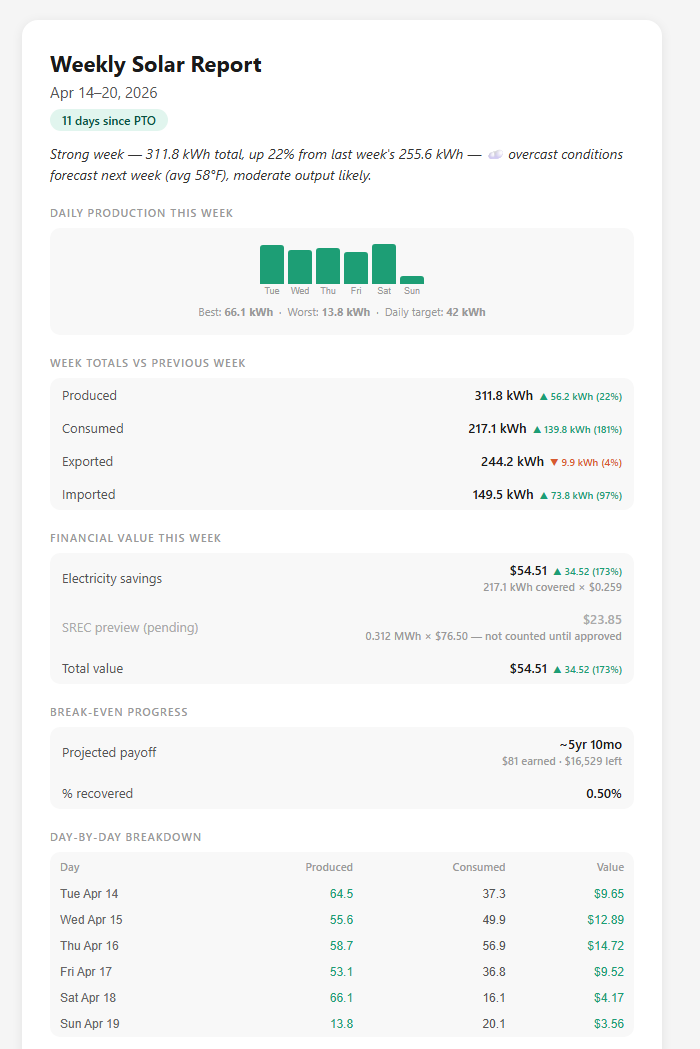
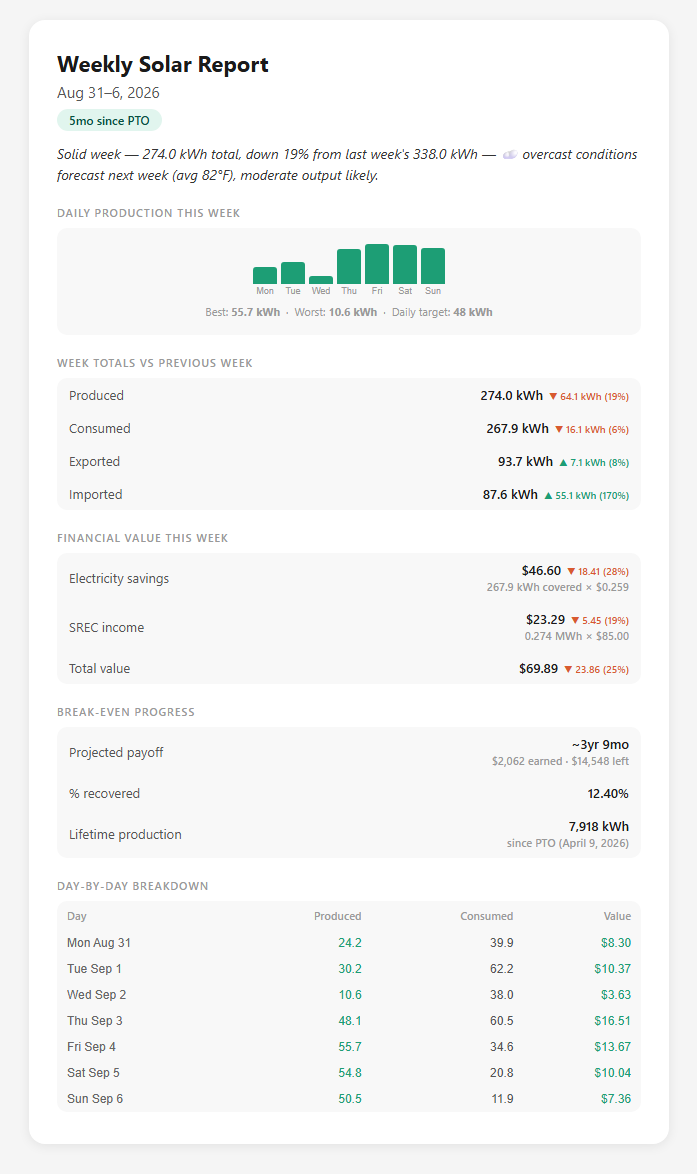
feat: enable SREC income now that NJ approval is in (#18)
SRECs are approved — enable SREC income across all reports at $85/MWh
(was excluded/greyed-out pending until now). Add a lifetime-production-
since-PTO card to all four report surfaces (daily HTML, daily email,
weekly, monthly) for consistency.

diff --git a/report_builder.py b/report_builder.py
@@ -132,7 +132,7 @@ def _break_even(cfg: dict, as_of_date: str) -> dict:
     """
     Project break-even using a year-by-year compound model:
       - Electricity savings escalate 3%/yr (PSE&G historical avg)
-      - SREC held flat at $76.50/yr per 1,000 kWh
+      - SREC held flat at $85.00/yr per 1,000 kWh
       - Annual consumption baseline: 10,100 kWh (from pre-solar bills)
       - Annual production baseline: annual_target_kwh from config
 
@@ -152,7 +152,7 @@ def _break_even(cfg: dict, as_of_date: str) -> dict:
     conn.close()
 
     net_cost     = cfg.get("net_cost", 16610)
-    srec_rate    = cfg.get("srec_rate", 76.5)
+    srec_rate    = cfg.get("srec_rate", 85.0)
     pseg_rate    = cfg.get("pseg_rate", 0.276)
     annual_prod  = cfg.get("annual_target_kwh", 13400)
 
@@ -174,7 +174,7 @@ def _break_even(cfg: dict, as_of_date: str) -> dict:
     # --- Year-by-year projection ---
     # Year 1 starts at PTO_DATE. For each year compute:
     #   electricity_savings = min(annual_prod, ANNUAL_KWH) × rate × (1.03)^yr
-    #   srec_income         = (annual_prod / 1000) × srec_rate  (flat)
+    #   srec_income         = (annual_prod / 1000) × srec_rate  (flat, added to annual_value)
     pto_year        = PTO.year
     base_elec_saved = min(annual_prod, ANNUAL_KWH) * pseg_rate  # year-0 rate
 
@@ -186,8 +186,8 @@ def _break_even(cfg: dict, as_of_date: str) -> dict:
         calendar_year  = pto_year + yr
         escalation     = (1 + RATE_ESCALATION) ** yr
         elec_savings   = round(base_elec_saved * escalation, 2)
-        srec_income    = round((annual_prod / 1000) * srec_rate, 2)  # informational only
-        annual_value   = round(elec_savings, 2)  # SRECs excluded until approval
+        srec_income    = round((annual_prod / 1000) * srec_rate, 2)
+        annual_value   = round(elec_savings + srec_income, 2)
 
         # How much of this year is still ahead of us?
         year_start = date(calendar_year, PTO.month, PTO.day)
@@ -311,6 +311,7 @@ def _yby_rows(year_by_year: list, net_cost: float) -> str:
             f'<tr style="background:{bg}">'
             f'<td style="padding:6px 8px;color:#444">{yr["year"]}{marker}</td>'
             f'<td style="padding:6px 8px;text-align:right;color:#1D9E75">${yr["elec_savings"]:,.0f}</td>'
+            f'<td style="padding:6px 8px;text-align:right;color:#1D9E75">${yr["srec_income"]:,.0f}</td>'
             f'<td style="padding:6px 8px;text-align:right;font-weight:600">${yr["annual_value"]:,.0f}</td>'
             f'<td style="padding:6px 8px;text-align:right;font-weight:600;color:{cum_color}">${yr["cumulative"]:,.0f} / ${net_cost:,.0f}</td>'
             f'</tr>'
@@ -394,6 +395,8 @@ def build_report(target_date: str) -> Path:
     bank = database.get_net_bank(PTO_DATE)
     banked_kwh       = bank["banked_kwh"]
     bank_excluded    = bank["anomalous_days"]
+    lifetime_produced = database.get_lifetime_production(PTO_DATE)
+    srec_earned       = row["srec_earned"]
     winter_days = round(banked_kwh / WINTER_DRAW) if banked_kwh > 0 else 0
     spring_days = round(banked_kwh / SPRING_DRAW) if banked_kwh > 0 else 0
     summer_days = round(banked_kwh / SUMMER_DRAW) if banked_kwh > 0 else 0
@@ -546,6 +549,11 @@ def build_report(target_date: str) -> Path:
       <div class="val" style="color:{'#1D9E75' if be['remaining'] <= 0 else '#378ADD'}">{be['label']}</div>
       <div class="sub">{be['sub']}</div>
     </div>
+    <div class="card">
+      <div class="lbl">Lifetime production</div>
+      <div class="val" style="color:#1D9E75">{lifetime_produced:,.0f}</div>
+      <div class="sub">kWh since PTO ({_fmt_date(PTO_DATE)})</div>
+    </div>
   </div>
 
   <div class="section">Financial value today</div>
@@ -556,9 +564,14 @@ def build_report(target_date: str) -> Path:
       <div class="sub">{elec_sub_html}</div>
     </div>
     <div class="card">
+      <div class="lbl">SREC income</div>
+      <div class="val" style="color:#1D9E75">${srec_earned:.2f}</div>
+      <div class="sub">{produced/1000:.3f} MWh × ${cfg['srec_rate']:.2f}</div>
+    </div>
+    <div class="card">
       <div class="lbl">Total value</div>
       <div class="val" style="color:#1D9E75">${total_value:.2f}{_delta_html(total_value, prev["total_value"] if prev else None, "", ".2f")}</div>
-      <div class="sub">electricity savings only</div>
+      <div class="sub">electricity savings + SREC income</div>
     </div>
   </div>
 
@@ -598,12 +611,13 @@ def build_report(target_date: str) -> Path:
 
   <div class="divider"></div>
 
-  <div class="section">Payoff projection — electricity savings only, 3% annual rate escalation</div>
+  <div class="section">Payoff projection — electricity savings + SREC income, 3% annual rate escalation</div>
   <table style="width:100%;border-collapse:collapse;font-size:12px;font-family:-apple-system,BlinkMacSystemFont,'Segoe UI',sans-serif">
     <thead>
       <tr style="color:#999;text-align:left;border-bottom:2px solid #eee">
         <th style="padding:6px 8px;font-weight:600">Year</th>
         <th style="padding:6px 8px;font-weight:600;text-align:right">Elec. savings</th>
+        <th style="padding:6px 8px;font-weight:600;text-align:right">SREC income</th>
         <th style="padding:6px 8px;font-weight:600;text-align:right">Annual value</th>
         <th style="padding:6px 8px;font-weight:600;text-align:right">Cumulative</th>
       </tr>

diff --git a/monthly_report.py b/monthly_report.py
@@ -145,6 +145,7 @@ def build_monthly_report(year: int | None = None, month: int | None = None) -> t
     elec_sav     = this_month["electricity_savings"]
     srec_earned  = this_month["srec_earned"]
     total_val    = this_month["total_value"]
+    lifetime_produced = database.get_lifetime_production(PTO_DATE)
     best_day     = this_month["best_day"]
     worst_day    = this_month["worst_day"]
     days_count   = this_month["days"]
@@ -260,9 +261,8 @@ def build_monthly_report(year: int | None = None, month: int | None = None) -> t
     style="background:#f8f8f8;border-radius:10px;margin-bottom:4px">
     {_stat_row("Electricity savings", f"${elec_sav:.2f}", d_elec,
                f"{min(produced, consumed):.1f} kWh covered × ${cfg['pseg_rate']:.3f}")}
-    {_stat_row("SREC preview (pending)", f"${srec_earned:.2f}", "",
-               f"{produced/1000:.3f} MWh × ${cfg['srec_rate']:.2f} — not counted until approved",
-               color="#aaaaaa", label_color="#aaaaaa")}
+    {_stat_row("SREC income", f"${srec_earned:.2f}", d_srec,
+               f"{produced/1000:.3f} MWh × ${cfg['srec_rate']:.2f}")}
     {_stat_row("Total value", f"${total_val:.2f}", d_total)}
   </table>
 
@@ -274,6 +274,7 @@ def build_monthly_report(year: int | None = None, month: int | None = None) -> t
                f"${be['total_earned']:,.0f} earned · ${be['remaining']:,.0f} left")}
     {_stat_row("% recovered", f"{be['pct_paid']:.2f}%", "")}
     {_stat_row("Break-even target", be["break_even_date"].strftime("%b %Y") if be["break_even_date"] else "TBD", "")}
+    {_stat_row("Lifetime production", f"{lifetime_produced:,.0f} kWh", "", f"since PTO ({_fmt_date(PTO_DATE)})")}
   </table>
 
   <!-- Week-by-week -->

diff --git a/email_builder.py b/email_builder.py
@@ -123,6 +123,7 @@ def build_email(target_date: str) -> str:
     srec_earned  = row["srec_earned"]
     total_value  = row["total_value"]
     monthly_kwh  = cum["monthly_kwh"]
+    lifetime_produced = database.get_lifetime_production(PTO_DATE)
 
     report_dt      = date.fromisoformat(d)
     month          = report_dt.month
@@ -386,6 +387,7 @@ def build_email(target_date: str) -> str:
       {_card("Net metering credit", net_card_value, "net today", net_card_color)}
       {_card("Month-to-date", f"{monthly_kwh:.1f} kWh", f"of {monthly_target:,} {month_name} target")}
       {_card("Break-even", be['label'], f"${be['total_earned']:,.0f} of ${cfg['net_cost']:,} earned", C_BLUE)}
+      {_card("Lifetime production", f"{lifetime_produced:,.0f} kWh", f"since PTO ({_fmt_date(PTO_DATE)})", C_GREEN)}
     </tr>
   </table>
 
@@ -394,8 +396,8 @@ def build_email(target_date: str) -> str:
   <table width="100%" cellpadding="0" cellspacing="0" border="0" style="margin-bottom:4px">
     <tr>
       {_card("Electricity savings", f"${electricity_savings:.2f}{_delta(electricity_savings, 'electricity_savings', '', '.2f')}", elec_sub_html, C_GREEN)}
-      {_card("SREC preview (pending)", f"${srec_earned:.2f}", "not counted until approved", C_GREY)}
-      {_card("Total value", f"${total_value:.2f}{_delta(total_value, 'total_value', '', '.2f')}", "electricity savings only", C_GREEN)}
+      {_card("SREC income", f"${srec_earned:.2f}", f"{produced/1000:.3f} MWh × ${cfg['srec_rate']:.2f}", C_GREEN)}
+      {_card("Total value", f"${total_value:.2f}{_delta(total_value, 'total_value', '', '.2f')}", "electricity savings + SREC income", C_GREEN)}
     </tr>
   </table>
 

diff --git a/weekly_report.py b/weekly_report.py
@@ -241,6 +241,7 @@ def build_weekly_report(week_start: date | None = None) -> tuple[Path, str]:
     elec_sav   = this_week["electricity_savings"]
     srec_earned = this_week["srec_earned"]
     total_val  = this_week["total_value"]
+    lifetime_produced = database.get_lifetime_production(PTO_DATE)
     best_day   = this_week["best_day"]
     worst_day  = this_week["worst_day"]
     days_count = this_week["days"]
@@ -357,9 +358,8 @@ def build_weekly_report(week_start: date | None = None) -> tuple[Path, str]:
     style="background:#f8f8f8;border-radius:10px;margin-bottom:4px">
     {_stat_row("Electricity savings", f"${elec_sav:.2f}", d_elec,
                f"{min(produced, consumed):.1f} kWh covered × ${cfg['pseg_rate']:.3f}")}
-    {_stat_row("SREC preview (pending)", f"${srec_earned:.2f}", "",
-               f"{produced/1000:.3f} MWh × ${cfg['srec_rate']:.2f} — not counted until approved",
-               color="#aaaaaa", label_color="#aaaaaa")}
+    {_stat_row("SREC income", f"${srec_earned:.2f}", d_srec,
+               f"{produced/1000:.3f} MWh × ${cfg['srec_rate']:.2f}")}
     {_stat_row("Total value", f"${total_val:.2f}", d_total)}
   </table>
 
@@ -370,6 +370,7 @@ def build_weekly_report(week_start: date | None = None) -> tuple[Path, str]:
     {_stat_row("Projected payoff", be["label"], "",
                f"${be['total_earned']:,.0f} earned · ${be['remaining']:,.0f} left")}
     {_stat_row("% recovered", f"{be['pct_paid']:.2f}%", "")}
+    {_stat_row("Lifetime production", f"{lifetime_produced:,.0f} kWh", "", f"since PTO ({_fmt_date(PTO_DATE)})")}
   </table>
 
   <!-- Day-by-day -->

diff --git a/database.py b/database.py
@@ -97,7 +97,7 @@ def save_reading(reading: dict, target_date: str | None = None):
     # If produced >= consumed: whole bill is wiped out → save consumed × rate
     # If produced <  consumed: solar covers produced kWh → save produced × rate
     electricity_savings = round(min(produced, consumed) * pseg_rate, 4)
-    total_value = round(electricity_savings, 4)  # SRECs excluded until approval
+    total_value = round(electricity_savings + srec_earned, 4)
 
     conn = get_conn()
     c = conn.cursor()
@@ -236,6 +236,17 @@ def get_net_bank(since_date: str) -> dict:
         "banked_kwh": BANK_ANCHOR_KWH + ((row["delta_kwh"] or 0.0) if row else 0.0),
         "anomalous_days": (row["anomalous_days"] or 0) if row else 0,
     }
+
+
+def get_lifetime_production(since_date: str) -> float:
+    """Total produced kWh from since_date (inclusive) to the latest reading."""
+    conn = get_conn()
+    row = conn.execute(
+        "SELECT SUM(produced) as total FROM daily_readings WHERE date >= ?",
+        (since_date,),
+    ).fetchone()
+    conn.close()
+    return (row["total"] or 0.0) if row else 0.0
 
 
 def get_cumulative() -> dict:

diff --git a/README.md b/README.md
@@ -16,8 +16,8 @@ Sent every morning at 5am covering the previous day.
 - **Performance meter** — colour-banded gauge rating production as Poor / Fair / Good / Excellent vs. monthly daily target
 - **Energy flow** — produced vs. consumed with net export/import
 - **Change indicators** — every metric shows ▲/▼ vs. the previous day, colour-coded so "up" is always good (more consumption = red, more production = green)
-- **Key metrics** — net metering credit, month-to-date production, break-even timeline
-- **Financial value** — electricity savings at retail rate; SREC preview shown but excluded from totals until approved
+- **Key metrics** — net metering credit, month-to-date production, break-even timeline, lifetime production since PTO
+- **Financial value** — electricity savings at retail rate plus SREC income
 - **System performance bars**
   - Production vs. theoretical max
   - Month-to-date vs. monthly target
@@ -32,8 +32,8 @@ Sent every Monday at 6:00 AM covering the previous week.
 - **Headline summary** — one-sentence digest with week-over-week comparison and next-week weather forecast
 - Sparkline bar chart of daily production
 - Week totals vs previous week with change indicators
-- Financial value with SREC preview greyed out
-- Break-even progress
+- Financial value including SREC income
+- Break-even progress and lifetime production since PTO
 - Day-by-day breakdown table
 
 ### Monthly Report
@@ -44,8 +44,8 @@ Sent on the 1st of each month at 6:30 AM covering the previous month.
 - Production vs monthly target progress bar
 - Year-to-date vs annual target
 - Month totals vs previous month with change indicators
-- Financial value with SREC preview greyed out
-- Break-even progress with projected payoff date
+- Financial value including SREC income
+- Break-even progress with projected payoff date and lifetime production since PTO
 - Week-by-week breakdown table
 - All periods clamped to PTO date — no pre-solar zeroes skew the data
 
@@ -101,7 +101,7 @@ cp config.example.json config.json
 | `pseg_delivery_rate` | Delivery component (for reference) |
 | `pseg_supply_rate` | Supply component — update quarterly as PSEG adjusts rates |
 | `pseg_fixed_monthly` | Fixed monthly service charge (solar doesn't eliminate this) |
-| `srec_rate` | SREC value in $/MWh (NJ: $76.50) |
+| `srec_rate` | SREC value in $/MWh (NJ: $85.00) |
 | `net_cost` | Net system cost after incentives ($) |
 | `annual_target_kwh` | Expected annual production from installer estimate |
 | `email_from` | Resend sender address |
@@ -170,30 +170,24 @@ from pathlib import Path
 NEW_RATE = 0.2586  # update this
 cfg = json.loads(Path("config.json").read_text(encoding="utf-8-sig"))
 conn = database.get_conn()
-rows = conn.execute("SELECT date, produced, consumed FROM daily_readings").fetchall()
+rows = conn.execute("SELECT date, produced, consumed, srec_earned FROM daily_readings").fetchall()
 for r in rows:
     kwh = min(r["produced"], r["consumed"])
-    new_val = round(kwh * NEW_RATE, 4)
+    elec_savings = round(kwh * NEW_RATE, 4)
+    total_value = round(elec_savings + r["srec_earned"], 4)
     conn.execute("UPDATE daily_readings SET electricity_savings=?, total_value=? WHERE date=?",
-                 (new_val, new_val, r["date"]))
+                 (elec_savings, total_value, r["date"]))
 conn.commit()
 conn.close()
 ```
 
 ---
 
-## SREC Approval
+## SREC Income
 
-Once you receive SREC approval, re-enable SREC income in `database.py`:
+SRECs are NJ-approved and included in `total_value` (`database.py`) and in the break-even projection (`report_builder.py`). `srec_rate` in `config.json` is $/MWh.
 
-```python
-# Change this line:
-total_value = round(electricity_savings, 4)
-# To:
-total_value = round(electricity_savings + srec_earned, 4)
-```
-
-The SREC preview card in each report already shows the pending value so you know what to expect.
+If your SREC rate changes, update `srec_rate` in `config.json`, then backfill historical rows the same way as an electricity rate change above — recompute `srec_earned = (produced / 1000) * NEW_SREC_RATE` and `total_value = electricity_savings + srec_earned` for each row.
 
 ---
 
@@ -210,7 +204,7 @@ daily_readings (
     self_consumed       REAL,
     srec_earned         REAL,   -- daily SREC accrual
     electricity_savings REAL,   -- min(produced,consumed) × pseg_rate
-    total_value         REAL    -- electricity_savings (+ srec_earned when approved)
+    total_value         REAL    -- electricity_savings + srec_earned
 )
 
 cumulative (

diff --git a/CLAUDE.md b/CLAUDE.md
@@ -23,13 +23,14 @@ weather.py           — Open-Meteo weather/forecast fetch (peak solar hours 9am
 ## Key Design Decisions
 
 - **Import/export**: Uses `net = produced - consumed` only. No rgm_stats (it measured inverter output, not grid export).
-- **Electricity savings**: `min(produced, consumed) × pseg_rate`. SRECs excluded until NJ approval.
-- **SRECs**: Displayed as greyed "pending" preview in all reports. One-line re-enable in `database.py` when approved.
+- **Electricity savings**: `min(produced, consumed) × pseg_rate`.
+- **SRECs**: NJ-approved as of 2026-09-13, rate $85/MWh. Included in `total_value` (`database.py`) and in break-even projections (`report_builder.py`). Historical `daily_readings` rows were backfilled from PTO at the approved rate. Live "SREC income" card in all reports.
+- **Lifetime production**: `database.get_lifetime_production(PTO_DATE)` — `SUM(produced)` since PTO. Displayed as its own card in all four report surfaces (daily HTML, daily email, weekly, monthly) alongside the SREC card.
 - **Weather**: Uses hourly WMO codes during **peak solar hours only (9am–2pm)** to avoid overnight conditions skewing the description.
 - **Email subject**: Colour-dot prefix (🟢🟡🟠🔴) based on production vs daily target ratio.
 - **Headline**: One-sentence summary with rating opener, all-time percentile (top X%), weather context, % change vs yesterday, tomorrow forecast. Special cases: "🏆 New record" for rank 1, "lowest day yet" for last place.
 - **Net metering bank**: Calibrated to PSE&G's own cumulative net-metering figure (`BANK_ANCHOR_DATE`/`BANK_ANCHOR_KWH` in `database.py`) plus `SUM(net)` for Enphase days after the anchor. Re-anchor from the bill's "Net Metering Program" table whenever a new bill arrives — Enphase's daily-total telemetry drifts from PSE&G's meter over time.
-- **Break-even**: Year-by-year compound model, 3% annual rate escalation, SREC excluded.
+- **Break-even**: Year-by-year compound model, 3% annual rate escalation on electricity savings; SREC income held flat at $85/MWh and included in annual value.
 
 ## Configuration (`config.json` — gitignored)
 
@@ -37,6 +38,7 @@ weather.py           — Open-Meteo weather/forecast fetch (peak solar hours 9am
 |---|---|
 | `pseg_rate` | Combined delivery + supply rate (update quarterly) |
 | `pseg_supply_rate` | Supply component — changes quarterly |
+| `srec_rate` | SREC value in $/MWh |
 | `net_cost` | Net system cost after incentives |
 | `annual_target_kwh` | 13,400 kWh from installer estimate |
 | `latitude` / `longitude` | Used for Open-Meteo weather API |
